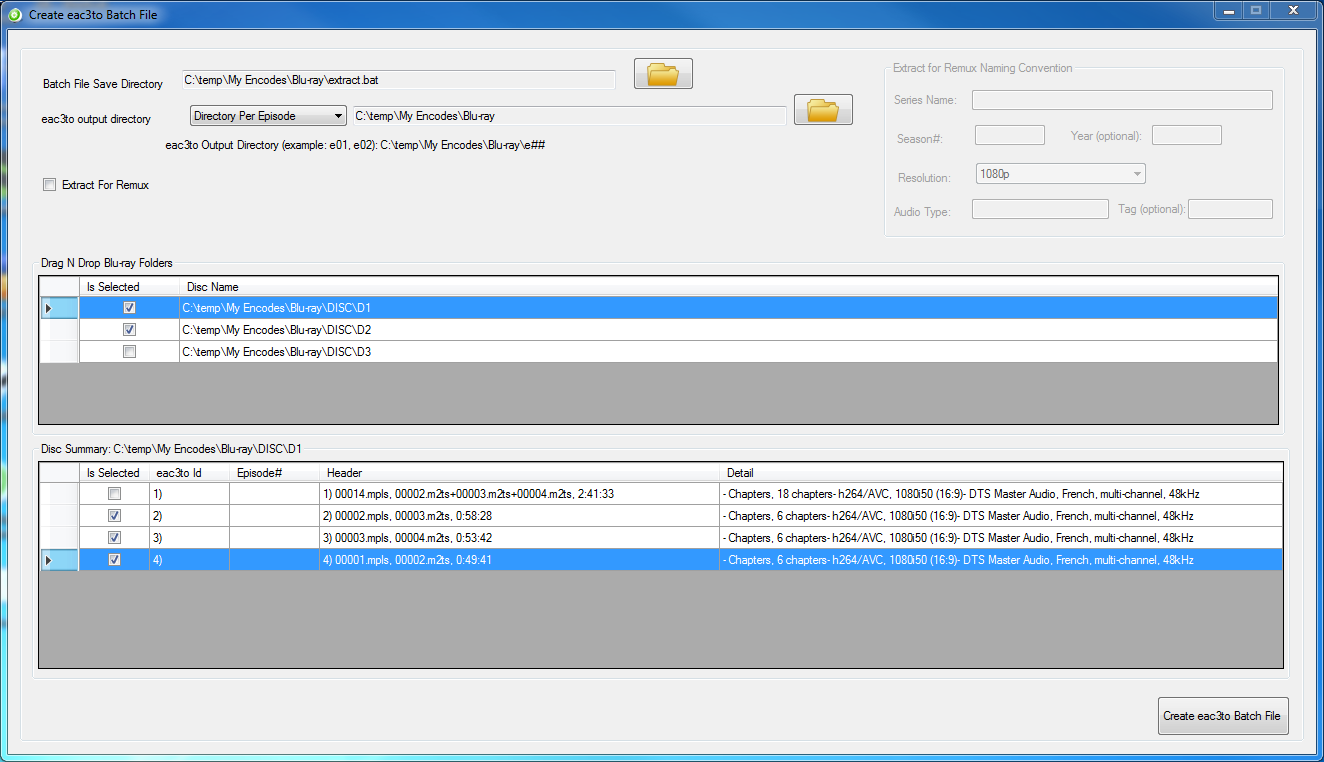
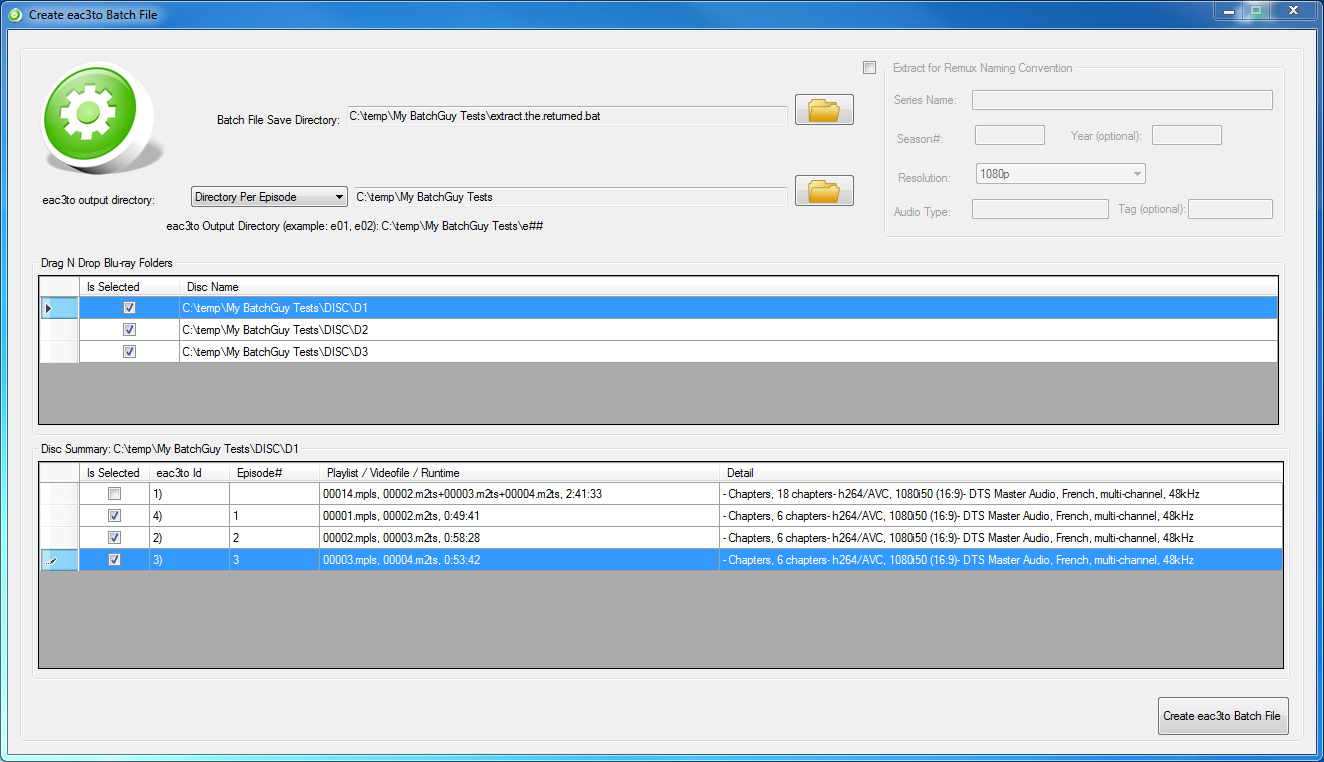
*Updated some screenshots *Warnings the user gets on the create eac3to screen made to be more intuitive to help user better understand the warning *Updated unit tests for the new more intuitive warning messages *Updated screen shots

diff --git a/tests/BatchGuy.Unit.Tests/Services/Eac3to/EAC3ToBatchFileWriteWarningServiceTests.cs b/tests/BatchGuy.Unit.Tests/Services/Eac3to/EAC3ToBatchFileWriteWarningServiceTests.cs
@@ -19,9 +19,10 @@ namespace BatchGuy.Unit.Tests.Services.Eac3to
         public void eac3tobatchfilewritewarningwervice_has_no_warnings_when_no_data_anomalies_test()
         {
             //given a list of discs where there is no data anomalis
-            List<BluRayDiscInfo> discs = new List<BluRayDiscInfo>() { new BluRayDiscInfo() { IsSelected = true }, new BluRayDiscInfo() { IsSelected = true } };
-            discs[0].BluRaySummaryInfoList = new List<BluRaySummaryInfo>() { new BluRaySummaryInfo() { IsSelected = true }, new BluRaySummaryInfo() { IsSelected = true } };
-            discs[1].BluRaySummaryInfoList = new List<BluRaySummaryInfo>() { new BluRaySummaryInfo() { IsSelected = true }, new BluRaySummaryInfo() { IsSelected = true } };
+            List<BluRayDiscInfo> discs = new List<BluRayDiscInfo>() { new BluRayDiscInfo() { IsSelected = true, BluRayPath = "c:\\temp\\disc1" }, new BluRayDiscInfo() { IsSelected = true, BluRayPath = "c:\\temp\\disc2" } };
+            discs[0].BluRaySummaryInfoList = new List<BluRaySummaryInfo>() { new BluRaySummaryInfo() { IsSelected = true }, new BluRaySummaryInfo() { IsSelected = true, Eac3ToId = "1)" } };
+
+            discs[1].BluRaySummaryInfoList = new List<BluRaySummaryInfo>() { new BluRaySummaryInfo() { IsSelected = true }, new BluRaySummaryInfo() { IsSelected = true, Eac3ToId = "2)" } };
             //when i get warnings
             IEAC3ToBatchFileWriteWarningService service = new EAC3ToBatchFileWriteWarningService(discs);
             WarningCollection warnings = service.GetWarnings();
@@ -33,43 +34,45 @@ namespace BatchGuy.Unit.Tests.Services.Eac3to
         public void eac3tobatchfilewritewarningwervice_has_warning_when_disc_selected_but_no_summaries_selected_test()
         {
             //given a list of discs where a disc is selected but no summaries selected
-            List<BluRayDiscInfo> discs = new List<BluRayDiscInfo>() { new BluRayDiscInfo() { IsSelected = true }, new BluRayDiscInfo() { IsSelected = true } };
-            discs[0].BluRaySummaryInfoList = new List<BluRaySummaryInfo>() { new BluRaySummaryInfo() { IsSelected = true }, new BluRaySummaryInfo() { IsSelected = true } };
+            List<BluRayDiscInfo> discs = new List<BluRayDiscInfo>() { new BluRayDiscInfo() { IsSelected = true, BluRayPath = "c:\\temp\\disc1" }, new BluRayDiscInfo() { IsSelected = true, BluRayPath = "c:\\temp\\disc2" } };
+            discs[0].BluRaySummaryInfoList = new List<BluRaySummaryInfo>() { new BluRaySummaryInfo() { IsSelected = true }, new BluRaySummaryInfo() { IsSelected = true, Eac3ToId = "1)" } };
             //when i get warnings
             IEAC3ToBatchFileWriteWarningService service = new EAC3ToBatchFileWriteWarningService(discs);
             WarningCollection warnings = service.GetWarnings();
             //then warnings should tell me i have selected discs found with no summary selected
-            warnings.Where(w => w.Description.Contains("Selected discs found with no summary selected")).Count().ShouldBeEqualTo(1);
+            warnings.Where(w => w.Description.Contains("disc2 selected but no summary selected")).Count().ShouldBeEqualTo(1);
         }
 
         [Test]
         public void eac3tobatchfilewritewarningwervice_has_warning_when_summary_and_title_selected_but_no_disc_selected_test()
         {
             //given a list of discs where summary and titles selected but disc not selected
-            List<BluRayDiscInfo> discs = new List<BluRayDiscInfo>() { new BluRayDiscInfo() { IsSelected = true }, new BluRayDiscInfo() { IsSelected = false } };
-            discs[0].BluRaySummaryInfoList = new List<BluRaySummaryInfo>() { new BluRaySummaryInfo() { IsSelected = true }, new BluRaySummaryInfo() { IsSelected = true } };
+            List<BluRayDiscInfo> discs = new List<BluRayDiscInfo>() { new BluRayDiscInfo() { IsSelected = true, BluRayPath = "c:\\temp\\disc1" }, new BluRayDiscInfo() { IsSelected = false, BluRayPath = "c:\\temp\\disc2" } };
+            discs[0].BluRaySummaryInfoList = new List<BluRaySummaryInfo>() { new BluRaySummaryInfo() { IsSelected = true, Eac3ToId = "1)" }, new BluRaySummaryInfo() { IsSelected = true, Eac3ToId = "2)" } };
+
             discs[1].BluRaySummaryInfoList = new List<BluRaySummaryInfo>() { new BluRaySummaryInfo() { IsSelected = true, BluRayTitleInfo = new BluRayTitleInfo() {Video = new BluRayTitleVideo() {IsSelected = true}} }, 
                 new BluRaySummaryInfo() { IsSelected = true, BluRayTitleInfo = new BluRayTitleInfo() { AudioList = new List<BluRayTitleAudio>() {new BluRayTitleAudio() { IsSelected = true} } } } };
             //when i get warnings
             IEAC3ToBatchFileWriteWarningService service = new EAC3ToBatchFileWriteWarningService(discs);
             WarningCollection warnings = service.GetWarnings();
             //then warnings should tell me i have selected summary and titles found with no disc selected
-            warnings.Where(w => w.Description.Contains("Selected summary and titles found with no disc selected")).Count().ShouldBeEqualTo(1);
+            warnings.Where(w => w.Description.Contains("Disc disc2 is not selected but has selected summary and video")).Count().ShouldBeEqualTo(1);
         }
 
         [Test]
         public void eac3tobatchfilewritewarningwervice_has_warning_when_title_selected_and_no_summary_and_disc_selected_test()
         {
             //given a list of discs where title selected and summary and disc not selected 
-            List<BluRayDiscInfo> discs = new List<BluRayDiscInfo>() { new BluRayDiscInfo() { IsSelected = false }, new BluRayDiscInfo() { IsSelected = false } };
-            discs[0].BluRaySummaryInfoList = new List<BluRaySummaryInfo>() { new BluRaySummaryInfo() { IsSelected = true }, new BluRaySummaryInfo() { IsSelected = true } };
-            discs[1].BluRaySummaryInfoList = new List<BluRaySummaryInfo>() { new BluRaySummaryInfo() { IsSelected = false, BluRayTitleInfo = new BluRayTitleInfo() {Video = new BluRayTitleVideo() {IsSelected = true}} }, 
-                new BluRaySummaryInfo() { IsSelected = true, BluRayTitleInfo = new BluRayTitleInfo() { AudioList = new List<BluRayTitleAudio>() {new BluRayTitleAudio() { IsSelected = true} } } } };
+            List<BluRayDiscInfo> discs = new List<BluRayDiscInfo>() { new BluRayDiscInfo() { IsSelected = false, BluRayPath = "c:\\temp\\disc1" }, new BluRayDiscInfo() { IsSelected = false, BluRayPath = "c:\\temp\\disc2" } };
+            discs[0].BluRaySummaryInfoList = new List<BluRaySummaryInfo>() { new BluRaySummaryInfo() { IsSelected = true, Eac3ToId = "1)" }, new BluRaySummaryInfo() { IsSelected = true, Eac3ToId = "2)" } };
+
+            discs[1].BluRaySummaryInfoList = new List<BluRaySummaryInfo>() { new BluRaySummaryInfo() { IsSelected = false, Eac3ToId = "1)", BluRayTitleInfo = new BluRayTitleInfo() {Video = new BluRayTitleVideo() {IsSelected = true}} }, 
+                new BluRaySummaryInfo() { IsSelected = true, Eac3ToId = "2)", BluRayTitleInfo = new BluRayTitleInfo() { AudioList = new List<BluRayTitleAudio>() {new BluRayTitleAudio() { IsSelected = true} } } } };
             //when i get warnings
             IEAC3ToBatchFileWriteWarningService service = new EAC3ToBatchFileWriteWarningService(discs);
             WarningCollection warnings = service.GetWarnings();
             //then warnings should tell me i have selected titles found with no disc or summary selected
-            warnings.Where(w => w.Description.Contains("Selected titles found with no disc or summary selected")).Count().ShouldBeEqualTo(1);
+            warnings.Where(w => w.Description.Contains("Disc disc2 summary 1) is not selected but has selected video")).Count().ShouldBeEqualTo(1);
         }
     }
 }

diff --git a/src/BatchGuy.App/Eac3To/Services/EAC3ToBatchFileWriteWarningService.cs b/src/BatchGuy.App/Eac3To/Services/EAC3ToBatchFileWriteWarningService.cs
@@ -3,6 +3,7 @@ using BatchGuy.App.Parser.Models;
 using BatchGuy.App.Shared.Models;
 using System;
 using System.Collections.Generic;
+using System.IO;
 using System.Linq;
 using System.Text;
 using System.Threading.Tasks;
@@ -22,12 +23,9 @@ namespace BatchGuy.App.Eac3To.Services
 
         public WarningCollection GetWarnings()
         {
-            if (this.DiscSelectedWithNoSummarySelected())
-                _warnings.Add(new Warning() { Description = "Selected discs found with no summary selected" });
-            if (this.SummaryAndTitleSelectedWithNoDiscSelected())
-                _warnings.Add(new Warning() { Description = "Selected summary and titles found with no disc selected" });
-            if (this.TitleSelectedWithNoDiscAndSummarySelected())
-                _warnings.Add(new Warning() { Description = "Selected titles found with no disc or summary selected" });
+            this.DiscSelectedWithNoSummarySelected();
+            this.SummaryAndTitleSelectedWithNoDiscSelected();
+            this.TitleSelectedWithNoDiscAndSummarySelected();
 
             return _warnings;
         }
@@ -40,8 +38,8 @@ namespace BatchGuy.App.Eac3To.Services
             {
                 if (disc.BluRaySummaryInfoList == null || disc.BluRaySummaryInfoList.Where(s => s.IsSelected == true).Count() == 0)
                 {
+                    _warnings.Add(new Warning() { Description = string.Format("Disc {0} selected but no summary selected", new DirectoryInfo(disc.DiscName).Name) });
                     hasWarning = true;
-                    break;
                 }
             }
             return hasWarning;
@@ -50,7 +48,6 @@ namespace BatchGuy.App.Eac3To.Services
         private bool SummaryAndTitleSelectedWithNoDiscSelected()
         {
             bool hasWarning = false;
-
             foreach (BluRayDiscInfo disc in _discs)
             {
                 if (disc.BluRaySummaryInfoList != null)
@@ -59,21 +56,25 @@ namespace BatchGuy.App.Eac3To.Services
                     {
                         if (disc.IsSelected == false && summary.BluRayTitleInfo != null)
                         {
+                            if (summary.BluRayTitleInfo.Video != null && summary.BluRayTitleInfo.Video.IsSelected)
+                            {
+                                _warnings.Add(new Warning() { Description = string.Format("Disc {0} is not selected but has selected summary and video",  new DirectoryInfo(disc.DiscName).Name) });
+                                hasWarning = true;
+                            }
                             if (summary.BluRayTitleInfo.AudioList != null && summary.BluRayTitleInfo.AudioList.Where(a => a.IsSelected).Count() > 0)
                             {
-                                return true;
-                            }
-                            if (summary.BluRayTitleInfo.Chapter != null && summary.BluRayTitleInfo.Chapter.IsSelected)
-                            {
-                                return true;
+                                _warnings.Add(new Warning() { Description = string.Format("Disc {0} is not selected but has selected summary and audio", new DirectoryInfo(disc.DiscName).Name) });
+                                hasWarning = true;
                             }
                             if (summary.BluRayTitleInfo.Subtitles != null && summary.BluRayTitleInfo.Subtitles.Where(s => s.IsSelected).Count() > 0)
                             {
-                                return true;
+                                _warnings.Add(new Warning() { Description = string.Format("Disc {0} is not selected but has selected summary and subtitles", new DirectoryInfo(disc.DiscName).Name) });
+                                hasWarning = true;
                             }
-                            if (summary.BluRayTitleInfo.Video != null && summary.BluRayTitleInfo.Video.IsSelected)
+                            if (summary.BluRayTitleInfo.Chapter != null && summary.BluRayTitleInfo.Chapter.IsSelected)
                             {
-                                return true;
+                                _warnings.Add(new Warning() { Description = string.Format("Disc {0} is not selected but has selected summary and chapters", new DirectoryInfo(disc.DiscName).Name) });
+                                hasWarning = true;
                             }
                         }
                     }
@@ -97,19 +98,23 @@ namespace BatchGuy.App.Eac3To.Services
                         {
                             if (summary.BluRayTitleInfo.AudioList != null && summary.BluRayTitleInfo.AudioList.Where(a => a.IsSelected).Count() > 0)
                             {
-                                return true;
+                                _warnings.Add(new Warning() { Description = string.Format("Disc {0} summary {1} is not selected but has selected audio", new DirectoryInfo(disc.DiscName).Name, summary.Eac3ToId) });
+                                hasWarning = true;
                             }
                             if (summary.BluRayTitleInfo.Chapter != null && summary.BluRayTitleInfo.Chapter.IsSelected)
                             {
-                                return true;
+                                _warnings.Add(new Warning() { Description = string.Format("Disc {0} summary {1} is not selected but has selected chapter", new DirectoryInfo(disc.DiscName).Name, summary.Eac3ToId) });
+                                hasWarning = true;
                             }
                             if (summary.BluRayTitleInfo.Subtitles != null && summary.BluRayTitleInfo.Subtitles.Where(s => s.IsSelected).Count() > 0)
                             {
-                                return true;
+                                _warnings.Add(new Warning() { Description = string.Format("Disc {0} summary {1} is not selected but has selected subtitles", new DirectoryInfo(disc.DiscName).Name, summary.Eac3ToId) });
+                                hasWarning = true;
                             }
                             if (summary.BluRayTitleInfo.Video != null && summary.BluRayTitleInfo.Video.IsSelected)
                             {
-                                return true;
+                                _warnings.Add(new Warning() { Description = string.Format("Disc {0} summary {1} is not selected but has selected video", new DirectoryInfo(disc.DiscName).Name, summary.Eac3ToId) });
+                                hasWarning = true;
                             }
                         }
                     }

diff --git a/src/BatchGuy.App/Shared/Models/WarningCollection.cs b/src/BatchGuy.App/Shared/Models/WarningCollection.cs
@@ -11,7 +11,7 @@ namespace BatchGuy.App.Shared.Models
         public string GetWarningMessage()
         {
             if (this != null && this.Count() > 0)
-                return string.Format("{0} Warnings found: {1}", this.Count() ,string.Join(Environment.NewLine,this.Select(e => e.Description)));
+                return string.Format("{0} Warnings found:{1}{2}", this.Count(),Environment.NewLine ,string.Join(Environment.NewLine,this.Select(e => e.Description)));
             else
                 return string.Empty;
         }
